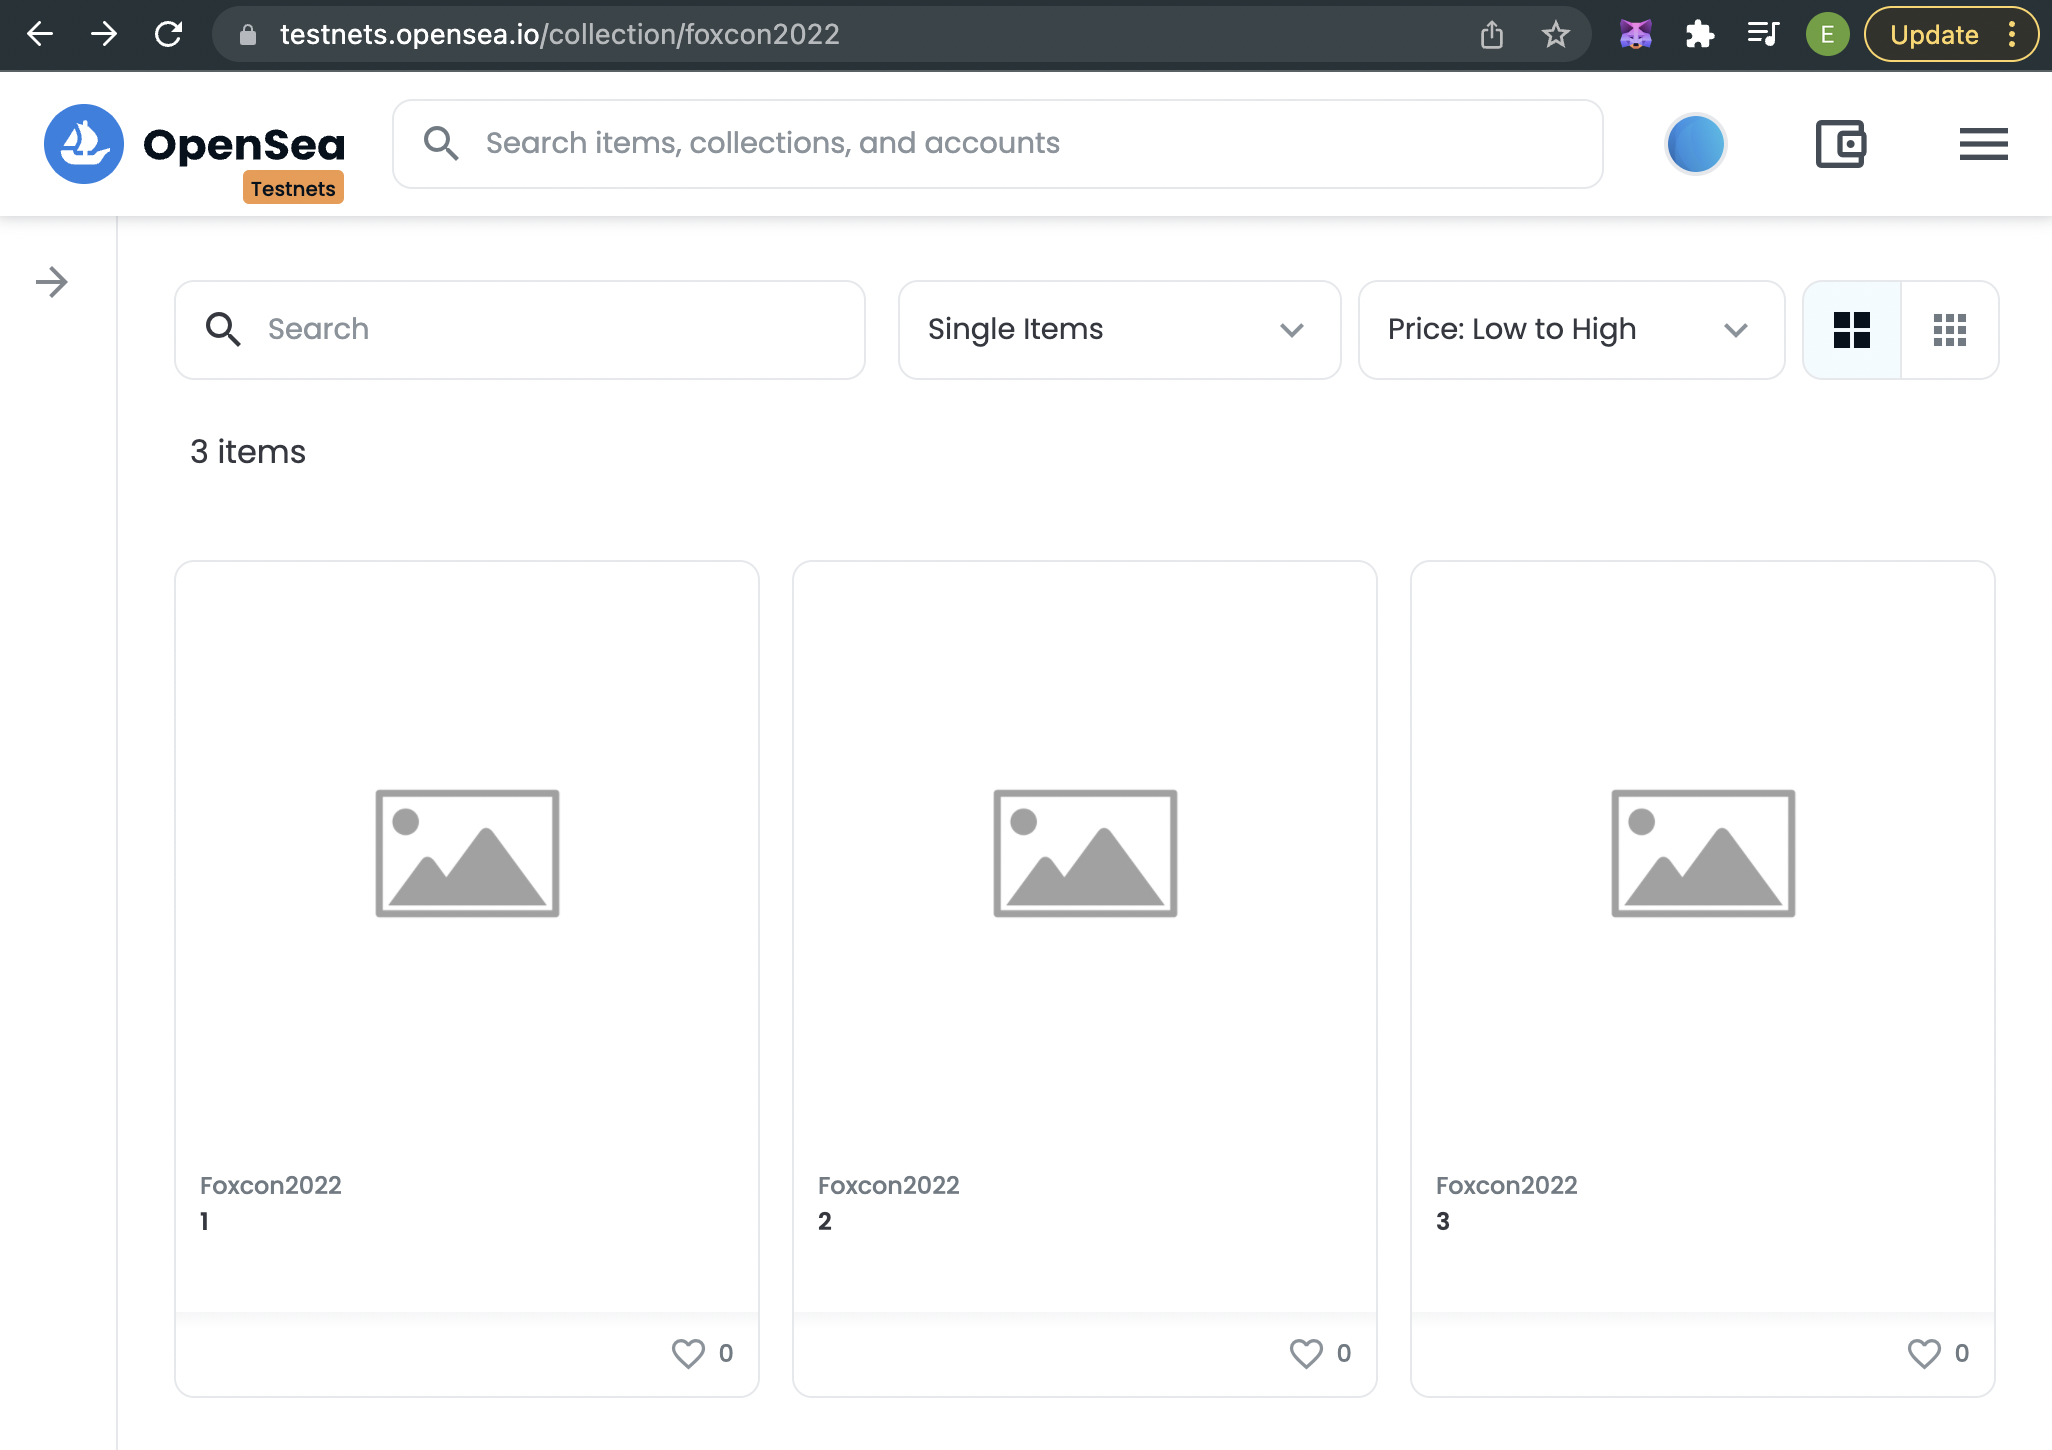
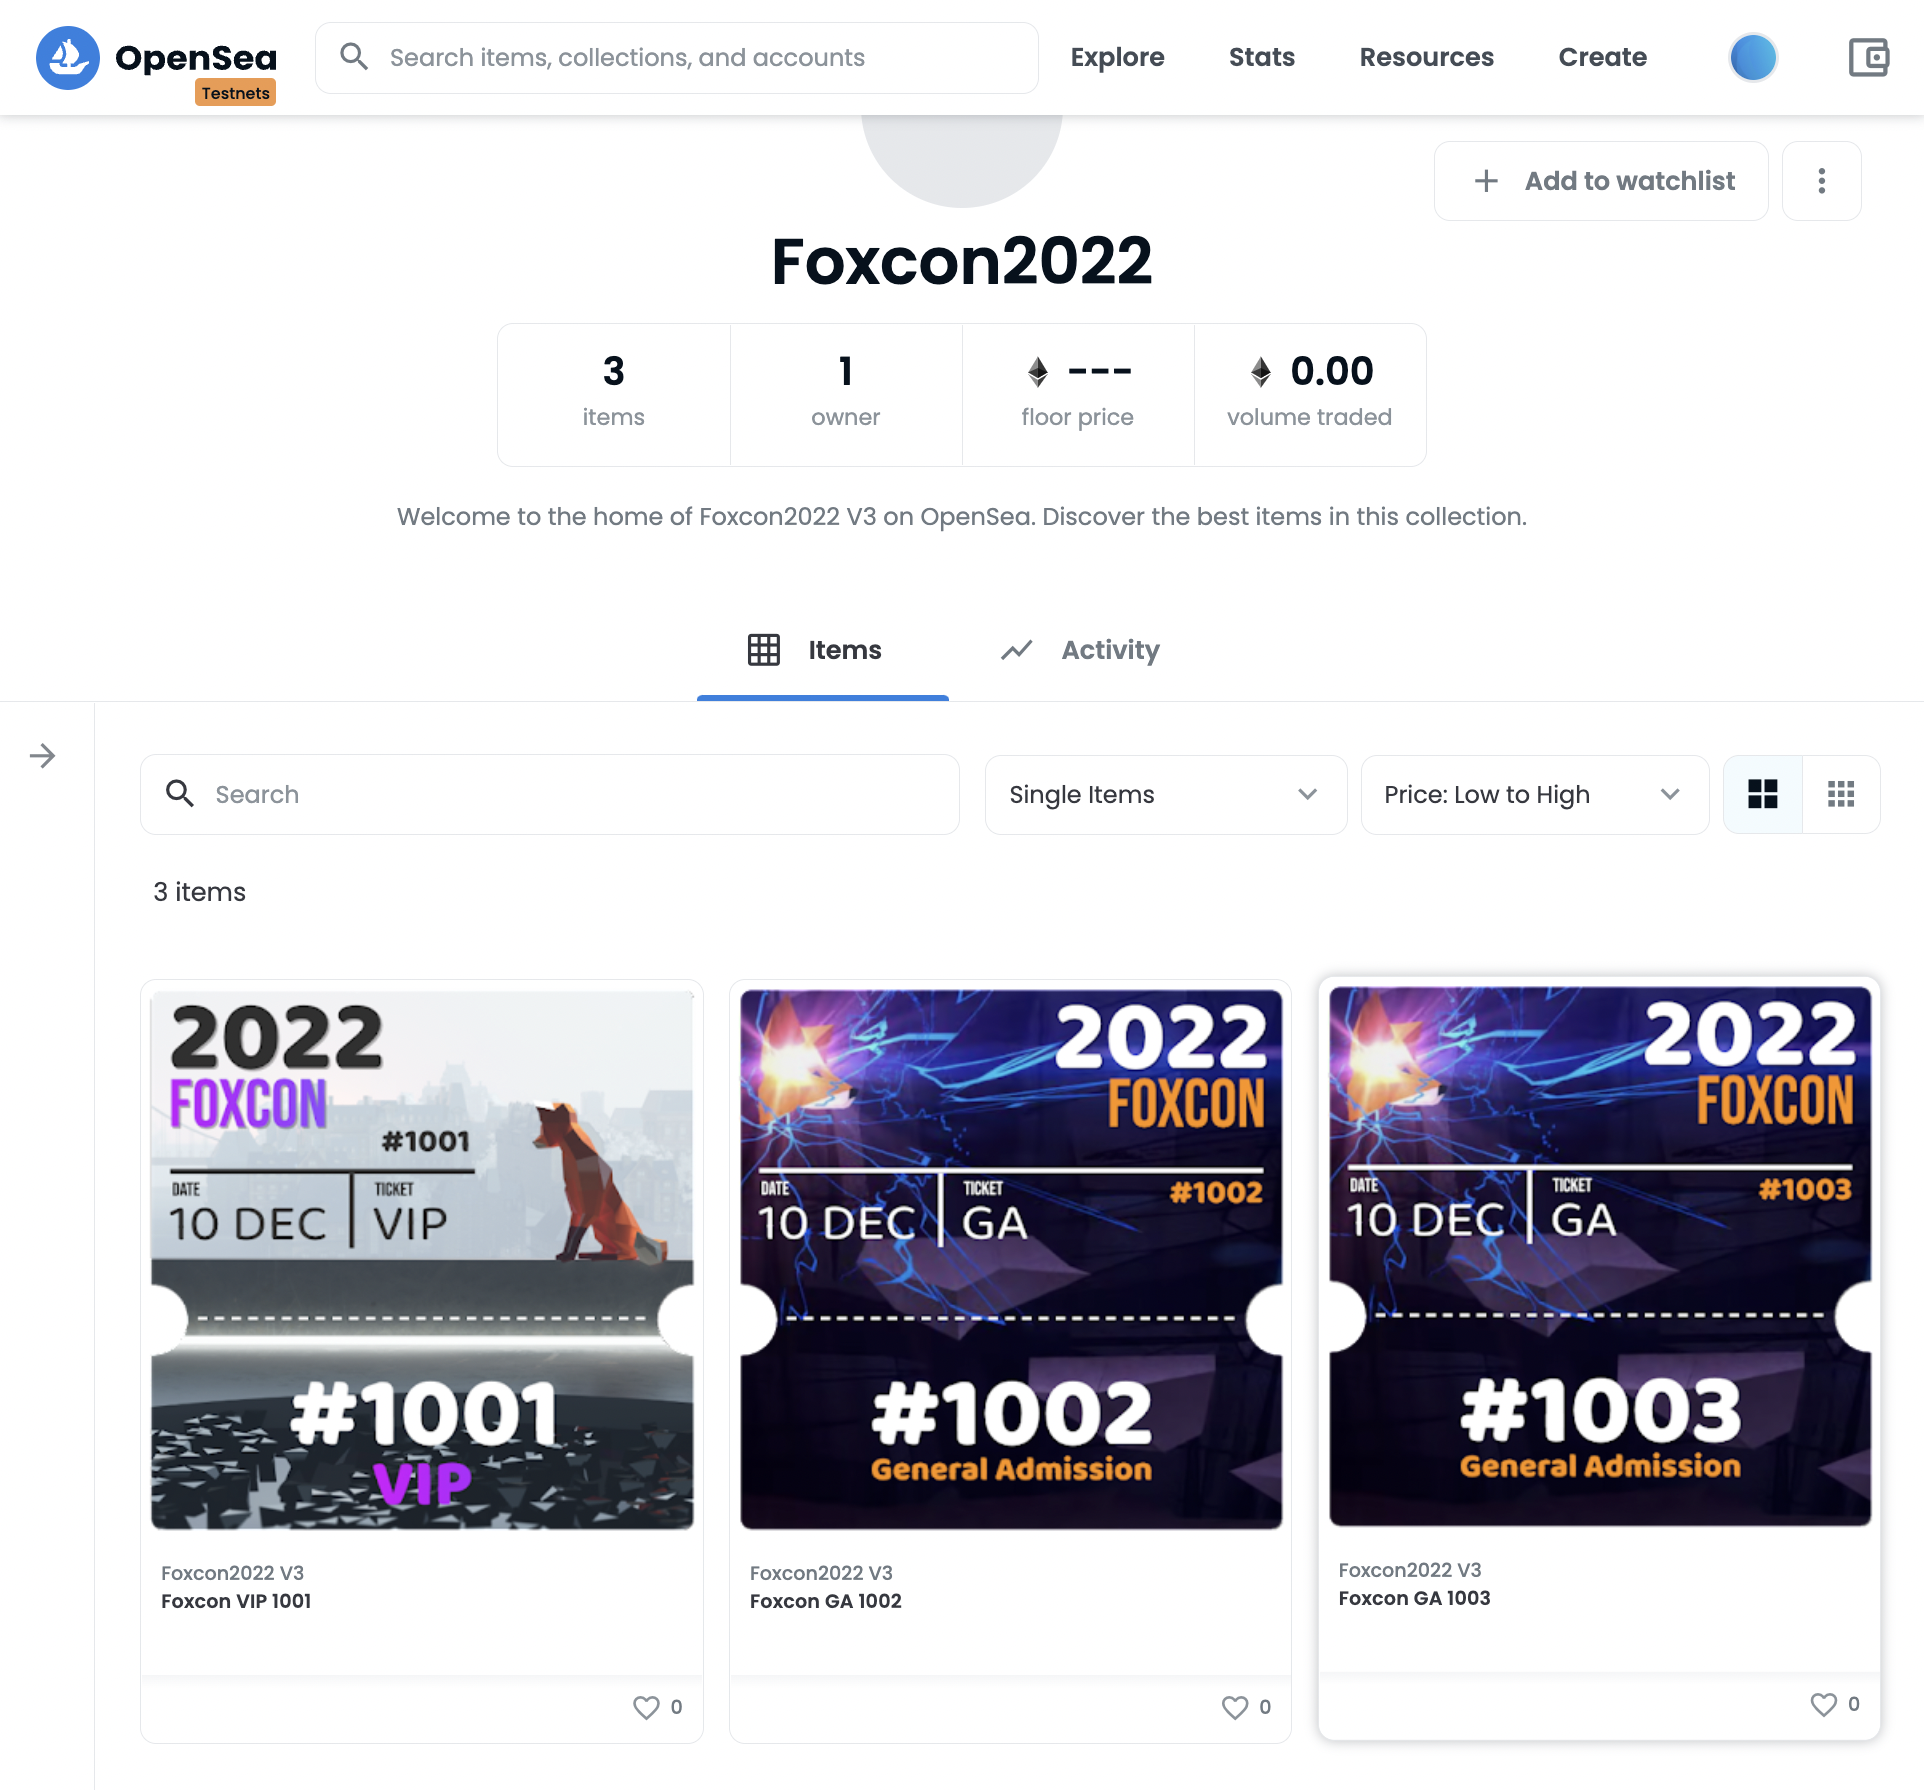
Update baseUri to have a forward slash at the end Update Readme

diff --git a/truffle-config.js b/truffle-config.js
@@ -59,7 +59,7 @@ module.exports = {
     // NB: It's important to wrap the provider as a function.
     rinkeby: {
       provider: () => new HDWalletProvider(
-        mnemonic, `https://rinkeby.infura.io/v3/6b087fef17b74f0fa413996a4e9ef419`
+        mnemonic, `https://rinkeby.infura.io/v3/4b9789bfd31b46fd9df6934461cfbe52`
       ),
       from: '0x568820334111ba2a37611F9Ad70BD074295D44C5', // Public wallet address
       network_id: 4,       // rinkeby's id

diff --git a/README.md b/README.md
@@ -120,7 +120,7 @@ contract Foxcon2022 is ERC721, ERC721URIStorage {
     constructor() ERC721("Foxcon2022", "FXC22") {}
 
     function _baseURI() internal pure override returns (string memory) {
-        return "https://ipfs.io/ipfs";
+        return "https://ipfs.io/ipfs/";
     }
 
     // The following functions are overrides required by Solidity.
@@ -164,16 +164,15 @@ Let's replace the current `constructor()` with this new version of it, plus an e
 
 ```ts
     constructor() ERC721("Foxcon2022", "FXC22") {
-      // _private method
       // (to: who owns it?, tokenId: what token is owned?)
-      _createTicket(msg.sender, 1, "");
-      _createTicket(msg.sender, 2, "");
-      _createTicket(msg.sender, 3, "");
-      // ^ generates 3 token NFTs that we can sell as tickets
+      _createTicket(msg.sender, 1, "QmcriZCeovxW61mYY6hNfYX1bmLh9gFUD294jhqUKkAUrk");
+      _createTicket(msg.sender, 2, "QmR84E5VLg8CuYyky6ufomShta3yaJTmbhfzArG7vAdvS6");
+      _createTicket(msg.sender, 3, "QmWUcWph126BHY6yV9hM8fFtdeitVbzqAihe2yZzMbeSvK");
     }
 
     function _createTicket(address to, uint id, string memory url) private returns(bool) {
       _safeMint(to, id);
+      _setTokenURI(id, url);
       return true;
     }
 ```
@@ -452,8 +451,4 @@ We will then see our NFT Tickets project, and you might think that something has
 
 ![](./assets-readme/nfts-on-opensea-1.png)
 
-Let's go get a cup of coffee and come right back! Also at this point you can decide to delete your `.secret` file. For instance, if we want to deploy to mainnet using a different owner, we could do that. Just remember, never to share you secret passphrase or private keys ever.
-
-So a few minutes have gone by, (1 hour to be exact) and we can see our NFTs in all of their glory:
-
-![]()
+At this point you can decide to delete your `.secret` file. For instance, if we want to deploy to mainnet using a different owner, we could do that. Just remember, never to share you secret passphrase or private keys ever.
